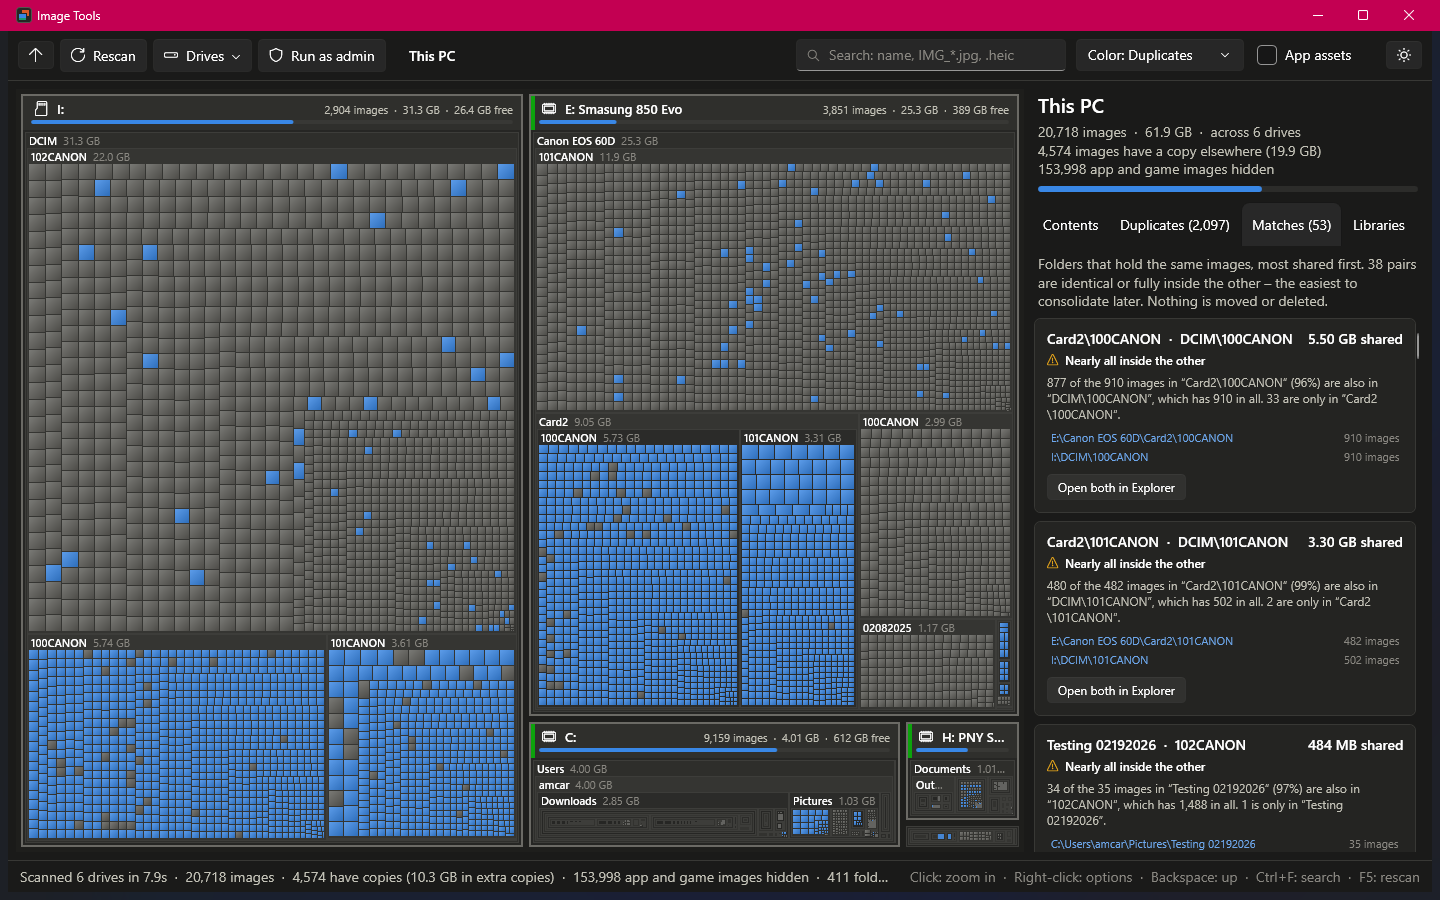
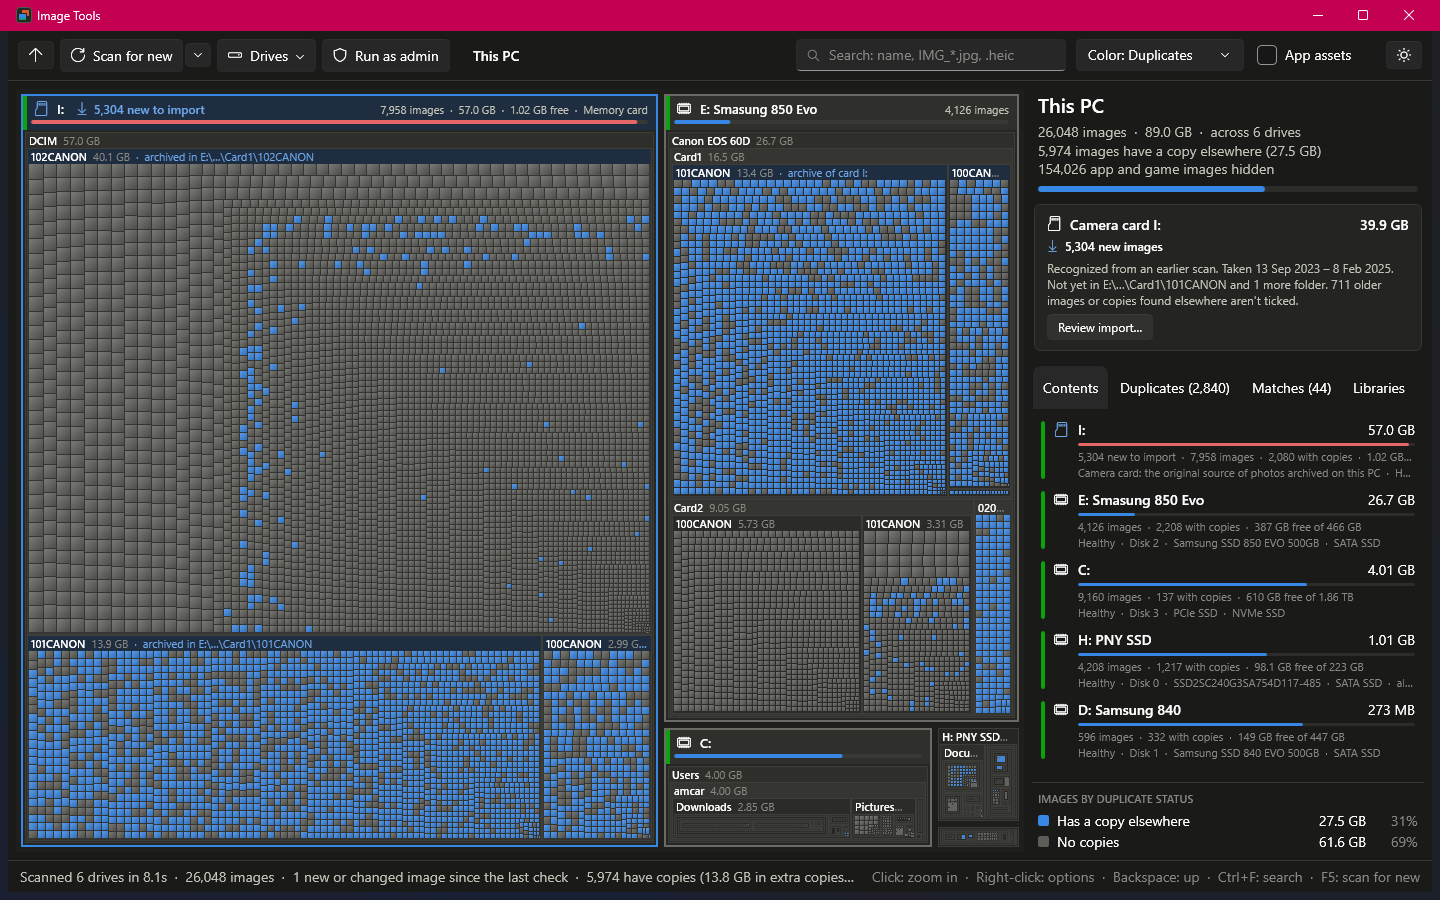
Fresh screenshots and 0.1.0-beta.2
New main screenshot plus Matches, camera-card import, preview and light
theme screenshots in a Screenshots section of the README. Version 0.1.0-
beta.2 covers camera-card detection and import, Scan for new / Full
rescan, source-card highlighting and fingerprint matching for cards.

diff --git a/README.md b/README.md
@@ -23,6 +23,24 @@ A fast Windows app that finds every photo and image on your drives, shows where 
 - **Run as admin (optional).** One click restarts the app elevated, so folders a normal user can't read are included. Still read-only.
 - **Same look as Disk Visualizer.** Drive frames with health strips and capacity bars, search with wildcards, light and dark themes, previews in the tooltip, and the same keyboard shortcuts.
 
+## Screenshots
+
+**Folder matches.** A camera folder on the card and its archive folder, with how much they share and what's only on one side.
+
+![Matches tab listing folder pairs](docs/screenshot-matches.png)
+
+**Import from a camera card.** New photos are ticked; older ones missing from the archive, and ones already elsewhere, are listed but not ticked.
+
+![Import window choosing images from a camera card](docs/screenshot-import.png)
+
+**Preview changes.** Every copy with its final name, the free space before and after, and nothing applied until you choose to.
+
+![Preview of the copies an import would make](docs/screenshot-preview.png)
+
+**Light theme.**
+
+![The map in the light theme](docs/screenshot-light.png)
+
 ## Running it
 
 ### Portable exe
